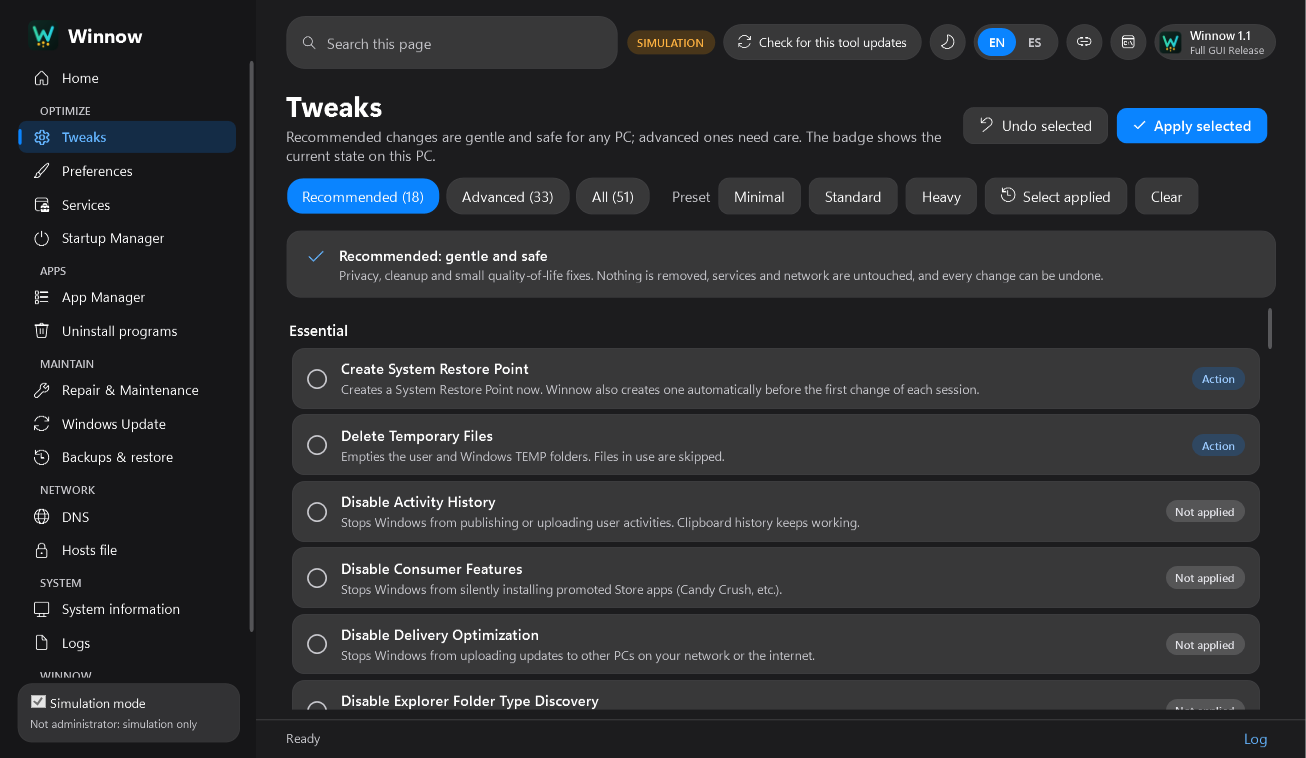
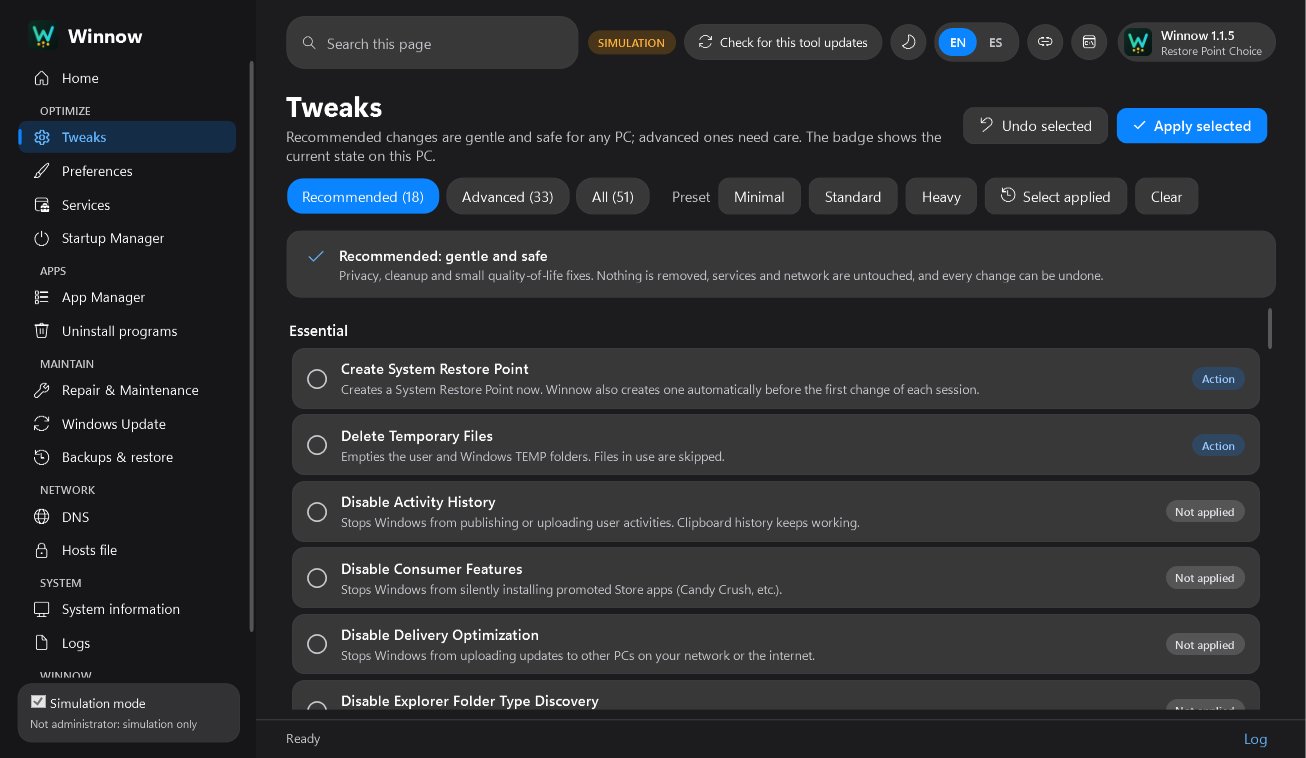
Winnow 1.1.5 Restore Point Choice
Skip the System Restore point (the JSON backup is always taken); winget
search runs on its own; refreshed screenshots.

Changed region(s): [[0.4288, 0.0, 0.9801, 0.091]]

diff --git a/CHANGELOG.md b/CHANGELOG.md
@@ -6,22 +6,19 @@ All notable changes to Winnow are listed here. The format follows
 ## [Unreleased]
 
 ### Planned
-- **1.1.5 Restore Point Choice**: skip the restore point if you want.
 - **1.2 Exit & Launcher Update**: desktop shortcut question on exit; one launcher.
 - **1.2.2 Secure Update**: update panel with Restart now or Later; downloads checked before they are installed; admin-only data folder.
 - **1.5 November Update**: new name WinNow and a logo for light and dark mode; startup apps listed active first.
 - More changes may be added and others removed.
 
-## [1.1] - 2026-11-04 - Full GUI Release
+## [1.1.5] - 2026-11-07 - Restore Point Choice
 
-The graphical interface leaves preview: the terminal and the window have the same tools. The Full GUI Release was
-first planned as 1.2 for November 8, 2026.
+The terminal edition and the graphical interface are both **1.1.5 Restore Point Choice**.
 
 ### Added
-- Graphical interface: **step-by-step progress bar** in the status bar for batches (tweaks, app installs and
-  uninstalls, uninstall programs, Store apps), with "Step 2 of 5: name".
-- Graphical interface: **List available upgrades** in the App Manager (what `winget upgrade` would update), also in
-  simulation mode.
+- **Skip the restore point**: before the first change of a session the terminal asks whether to create a System
+  Restore point, and the window's confirmation offers Yes (with restore point), No (without it) or Cancel. The
+  JSON backup is taken either way.
 
 ### Changed
 - **Search winget never waits**: the winget search runs on its own instead of queuing behind the window's tasks
@@ -36,6 +33,18 @@ first planned as 1.2 for November 8, 2026.
 - The search box selects its text on a click, so typing replaces it. The name in the top bar is smaller and opens
   About.
 - **Support development**: About (window and terminal) links to WinNow's PayPal donation page.
+## [1.1] - 2026-11-04 - Full GUI Release
+
+The graphical interface leaves preview: the terminal and the window have the same tools. The Full GUI Release was
+first planned as 1.2 for November 8, 2026.
+
+### Added
+- Graphical interface: **step-by-step progress bar** in the status bar for batches (tweaks, app installs and
+  uninstalls, uninstall programs, Store apps), with "Step 2 of 5: name".
+- Graphical interface: **List available upgrades** in the App Manager (what `winget upgrade` would update), also in
+  simulation mode.
+
+### Changed
 - "Preview" / "Release Candidate" labels removed from the window, menus and docs.
 - **Theme menu with mes patrio**: the theme button opens **Light**, **Dark** (the default logo and banner) and
   **Mes patrio**. November is Panama's patriotic month: mes patrio uses the Panama icon (window, taskbar, desktop
@@ -217,7 +226,8 @@ First release.
 - Scripted use: `-Preset`, `-Apply`, `-Undo`, `-Install`, `-List`, `-Status`, `-Yes`, `-NoRestorePoint`.
 - One-line launcher: `irm https://github.com/eperez98/Winnow/releases/latest/download/run.ps1 | iex`.
 
-[Unreleased]: https://github.com/eperez98/Winnow/compare/v1.1...HEAD
+[Unreleased]: https://github.com/eperez98/Winnow/compare/v1.1.5...HEAD
+[1.1.5]: https://github.com/eperez98/Winnow/releases/tag/v1.1.5
 [1.1]: https://github.com/eperez98/Winnow/releases/tag/v1.1
 [1.0.9]: https://github.com/eperez98/Winnow/releases/tag/v1.0.9
 [1.0.8]: https://github.com/eperez98/Winnow/releases/tag/v1.0.8

diff --git a/README.md b/README.md
@@ -6,7 +6,7 @@
 <p align="center"><sub>Proudly made in Panama PTY507</sub></p>
 
 <p align="center">
-  <img src="https://img.shields.io/badge/version-1.1%20Full%20GUI%20Release-10B981?style=flat-square"/>
+  <img src="https://img.shields.io/badge/version-1.1.5%20Restore%20Point%20Choice-10B981?style=flat-square"/>
   <img src="https://img.shields.io/badge/platform-Windows%2010%2F11-0078D4?style=flat-square"/>
   <img src="https://img.shields.io/badge/PowerShell-5.1%20%7C%207-22D3EE?style=flat-square"/>
   <img src="https://img.shields.io/badge/language-English%20%7C%20Espa%C3%B1ol-6EE7B7?style=flat-square"/>
@@ -36,14 +36,14 @@ same way. See the [CHANGELOG](CHANGELOG.md).
 
 | Edition | Version | Status |
 |---|---|---|
-| Terminal | **1.1** | Full GUI Release |
-| Graphical interface | **1.1** | Full GUI Release (the window leaves preview) |
+| Terminal | **1.1.5** | Restore Point Choice |
+| Graphical interface | **1.1.5** | Restore Point Choice (full GUI release since **1.1**) |
 
 > [!NOTE]
 > Both editions now have the same modules: tweaks, preferences, services, startup apps, apps, uninstall
 > programs, repair, Windows Update, backups and restore, DNS, hosts, system information and logs.
 > The **terminal edition is the reference and the most tested one**; the graphical interface runs on the same
-> engine. Both are at 1.1. The window has a button that opens the terminal.
+> engine. Both are at 1.1.5. The window has a button that opens the terminal.
 
 ## Quick start
 
@@ -119,8 +119,8 @@ simulation mode. Long tasks run in the background and stream their output into t
 | Recommended tweaks, dark | Advanced tweaks with their caution note, light (Spanish) |
 | ![GUI services](screenshots/21-gui-services.png) | ![GUI repair](screenshots/19-gui-repair.png) |
 | Services, light | Repair & maintenance, light |
-| ![GUI updates](screenshots/20-gui-updates-es.png) | ![Theme picker](screenshots/31-gui-theme-picker-es.png) |
-| Windows Update, dark (Spanish) | The theme picker, unfolded from its button (Spanish) |
+| ![GUI updates](screenshots/20-gui-updates-es.png) |  |
+| Windows Update, dark (Spanish) |  |
 
 ## Screenshots
 
@@ -194,7 +194,7 @@ show the compact `\/\/. winnow` mark in the header.
 ### Safety
 
 - **Simulation mode** (`-DryRun`, or `M` in the main menu) prints every registry, service, app and command step without running it.
-- A **System Restore Point** is created automatically before the first change of each session.
+- A **System Restore Point** is offered before the first change of each session (you can skip it for that task; the JSON backup is always taken).
 - A **Winnow backup** (JSON with the exact current registry values, service startup types, DNS servers and installed-app list) is saved **before every change**: tweaks, apps, services, startup, DNS, updates, repairs. Restore any of them from **Backups & restore**.
 - Undo only touches tweaks that are currently applied, and services are only restored if they are still where Winnow put them.
 - High-risk items are flagged in lists and in the confirmation screen.
